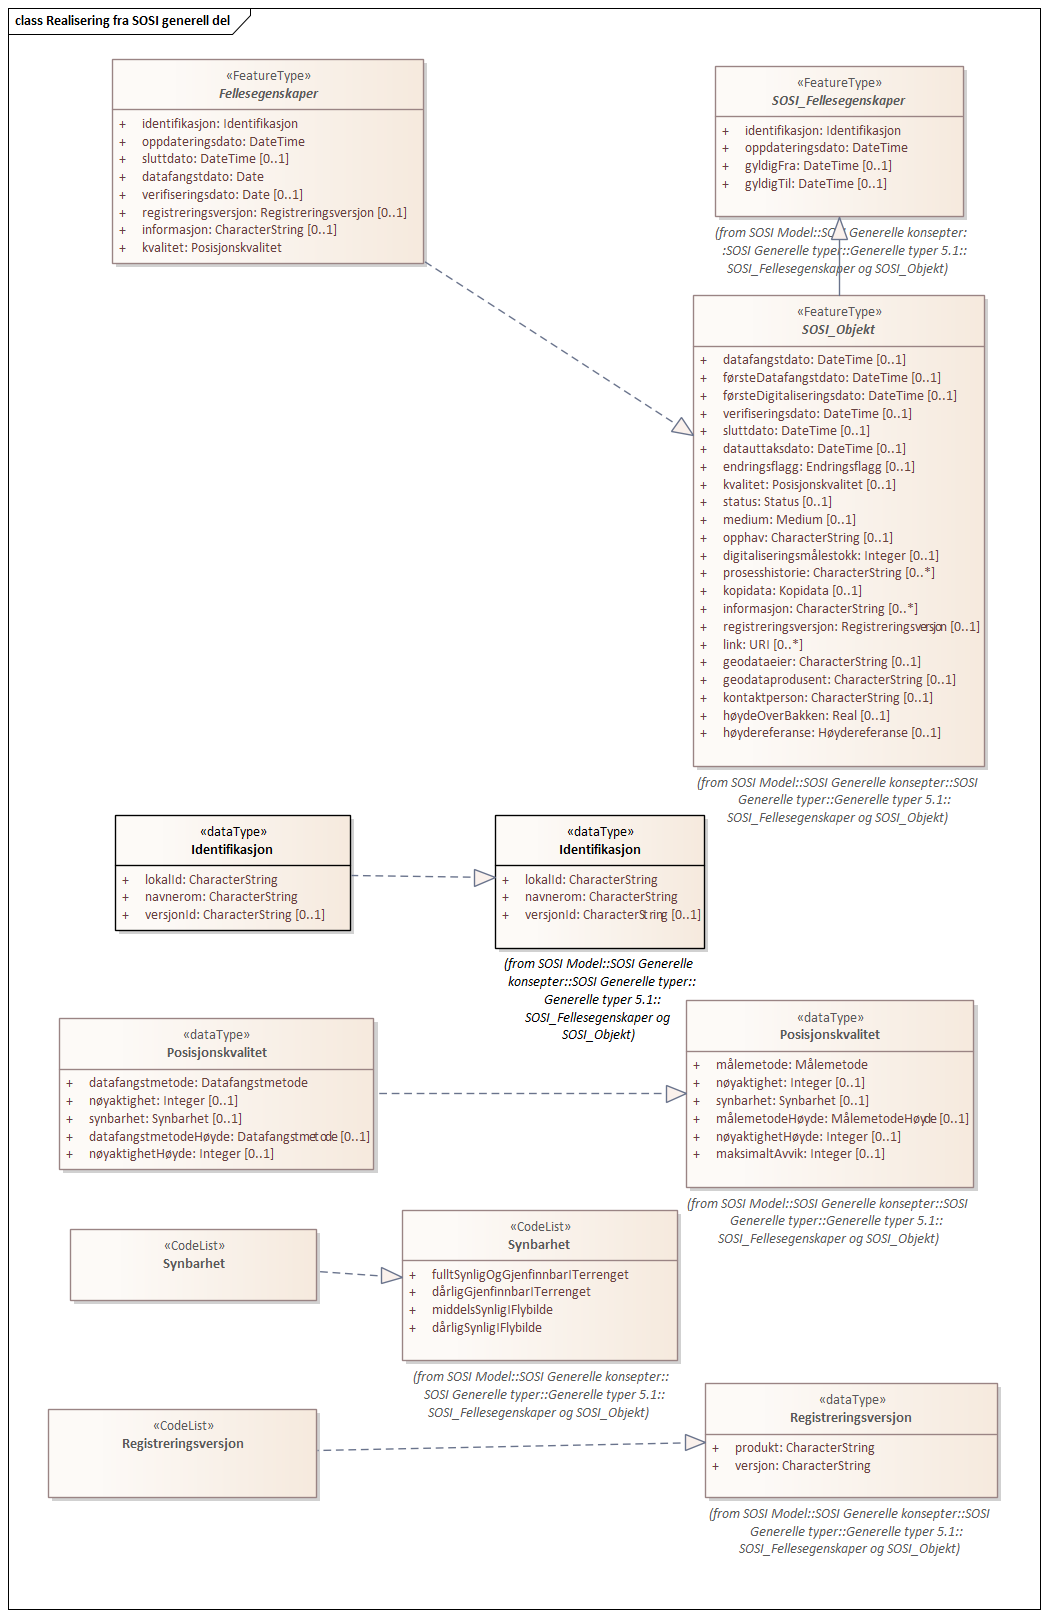
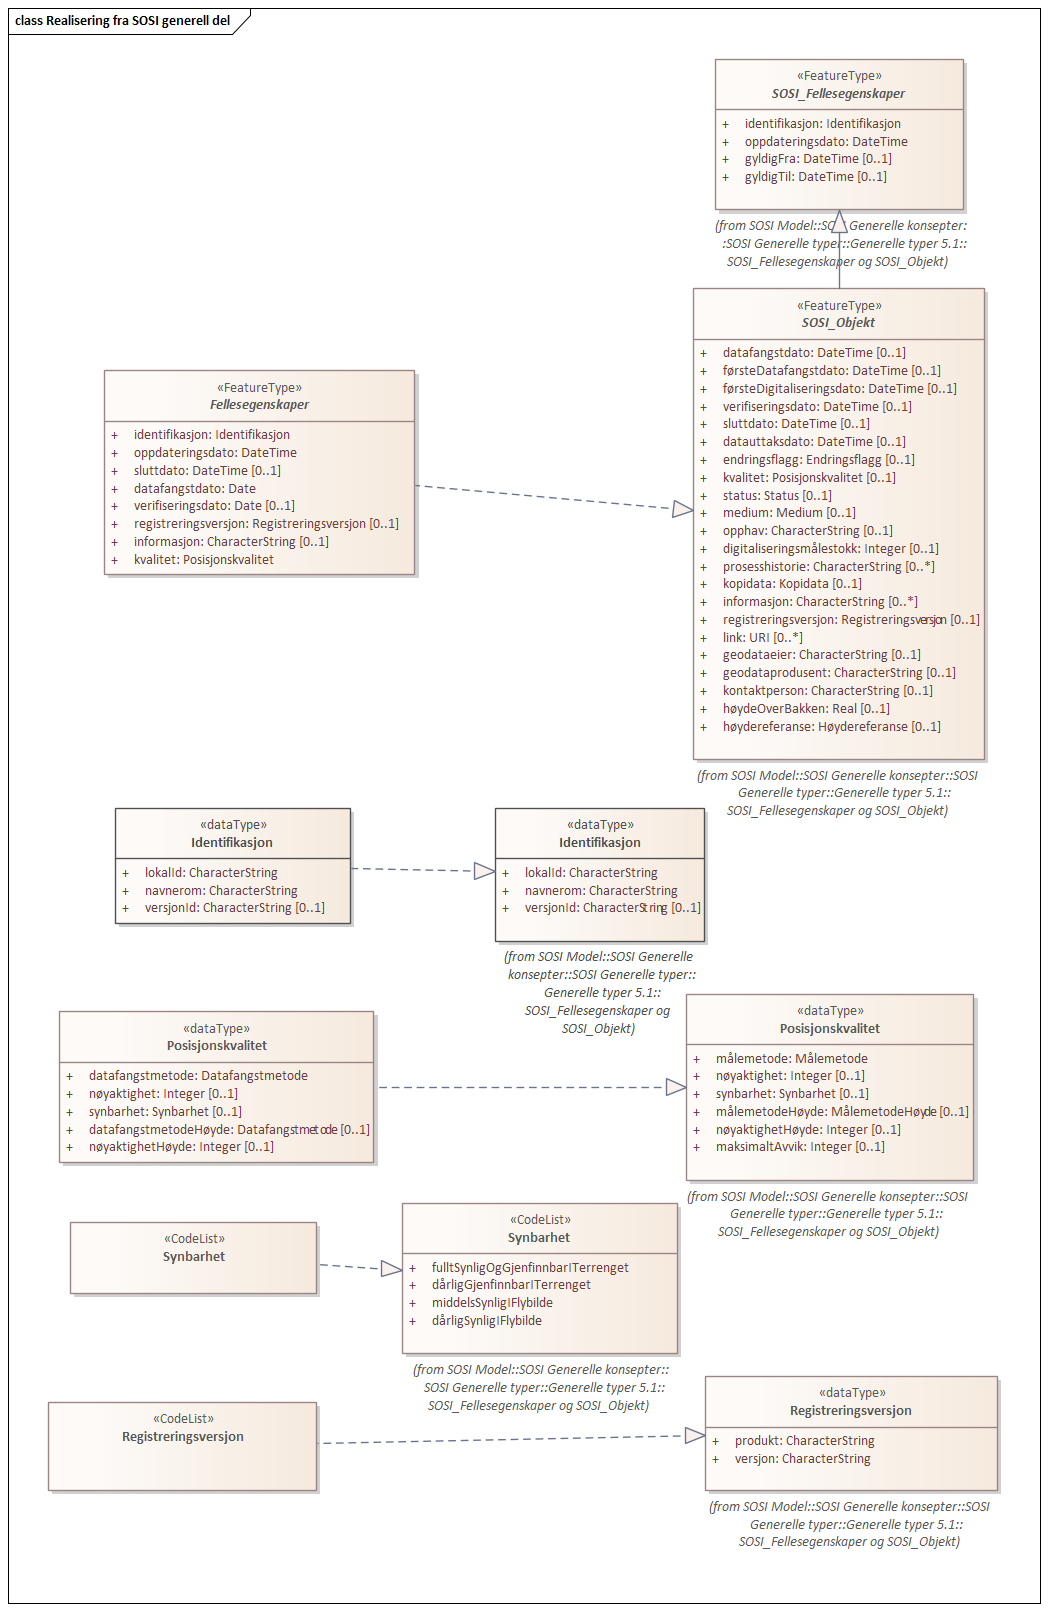
Diagram pynt

diff --git a/produktspesifikasjon/index.html b/produktspesifikasjon/index.html
@@ -1398,7 +1398,7 @@ Kopieres direkte inn i de enkelte FKB-datasettene</p>
 </tr>
 <tr>
 <td class="tableblock halign-left valign-top"><p class="tableblock">Type:</p></td>
-<td class="tableblock halign-left valign-top"><p class="tableblock"><a href="http://skjema.geonorge.no/SOSI/basistype/DateTime">DateTime</a></p></td>
+<td class="tableblock halign-left valign-top"><p class="tableblock">DateTime</p></td>
 </tr>
 </tbody>
 </table>
@@ -1424,7 +1424,7 @@ Egenskapen settes av forvaltningssystemet . Sluttdato skal kun sendes med ut fra
 </tr>
 <tr>
 <td class="tableblock halign-left valign-top"><p class="tableblock">Type:</p></td>
-<td class="tableblock halign-left valign-top"><p class="tableblock"><a href="http://skjema.geonorge.no/SOSI/basistype/DateTime">DateTime</a></p></td>
+<td class="tableblock halign-left valign-top"><p class="tableblock">DateTime</p></td>
 </tr>
 </tbody>
 </table>
@@ -1448,7 +1448,7 @@ Egenskapen settes av forvaltningssystemet . Sluttdato skal kun sendes med ut fra
 </tr>
 <tr>
 <td class="tableblock halign-left valign-top"><p class="tableblock">Type:</p></td>
-<td class="tableblock halign-left valign-top"><p class="tableblock"><a href="http://skjema.geonorge.no/SOSI/basistype/Date">Date</a></p></td>
+<td class="tableblock halign-left valign-top"><p class="tableblock">Date</p></td>
 </tr>
 </tbody>
 </table>
@@ -1474,7 +1474,7 @@ Brukes for eksempel i de sammenhenger hvor det er foretatt fotogrammetrisk ajour
 </tr>
 <tr>
 <td class="tableblock halign-left valign-top"><p class="tableblock">Type:</p></td>
-<td class="tableblock halign-left valign-top"><p class="tableblock"><a href="http://skjema.geonorge.no/SOSI/basistype/Date">Date</a></p></td>
+<td class="tableblock halign-left valign-top"><p class="tableblock">Date</p></td>
 </tr>
 </tbody>
 </table>
@@ -1528,7 +1528,7 @@ Mulighet til å legge inn utfyllende informasjon om objektet. Egenskapen bør ba
 </tr>
 <tr>
 <td class="tableblock halign-left valign-top"><p class="tableblock">Type:</p></td>
-<td class="tableblock halign-left valign-top"><p class="tableblock"><a href="http://skjema.geonorge.no/SOSI/basistype/CharacterString">CharacterString</a></p></td>
+<td class="tableblock halign-left valign-top"><p class="tableblock">CharacterString</p></td>
 </tr>
 </tbody>
 </table>
@@ -1603,7 +1603,7 @@ SOSI Generell objektkatalog::FKB Generell del::FKB Generell del-5.0::Generelle e
 </tr>
 <tr>
 <td class="tableblock halign-left valign-top"><p class="tableblock">Type:</p></td>
-<td class="tableblock halign-left valign-top"><p class="tableblock"><a href="http://skjema.geonorge.no/SOSI/basistype/URI">URI</a></p></td>
+<td class="tableblock halign-left valign-top"><p class="tableblock">URI</p></td>
 </tr>
 </tbody>
 </table>
@@ -1627,7 +1627,7 @@ SOSI Generell objektkatalog::FKB Generell del::FKB Generell del-5.0::Generelle e
 </tr>
 <tr>
 <td class="tableblock halign-left valign-top"><p class="tableblock">Type:</p></td>
-<td class="tableblock halign-left valign-top"><p class="tableblock"><a href="http://skjema.geonorge.no/SOSI/basistype/GM_Surface">GM_Surface</a></p></td>
+<td class="tableblock halign-left valign-top"><p class="tableblock">GM_Surface</p></td>
 </tr>
 </tbody>
 </table>
@@ -1696,7 +1696,7 @@ SOSI Generell objektkatalog::FKB Generell del::FKB Generell del-5.0::Generelle e
 </tr>
 <tr>
 <td class="tableblock halign-left valign-top"><p class="tableblock">Type:</p></td>
-<td class="tableblock halign-left valign-top"><p class="tableblock"><a href="http://skjema.geonorge.no/SOSI/basistype/CharacterString">CharacterString</a></p></td>
+<td class="tableblock halign-left valign-top"><p class="tableblock">CharacterString</p></td>
 </tr>
 </tbody>
 </table>
@@ -1722,7 +1722,7 @@ SOSI Generell objektkatalog::FKB Generell del::FKB Generell del-5.0::Generelle e
 </tr>
 <tr>
 <td class="tableblock halign-left valign-top"><p class="tableblock">Type:</p></td>
-<td class="tableblock halign-left valign-top"><p class="tableblock"><a href="http://skjema.geonorge.no/SOSI/basistype/CharacterString">CharacterString</a></p></td>
+<td class="tableblock halign-left valign-top"><p class="tableblock">CharacterString</p></td>
 </tr>
 </tbody>
 </table>
@@ -1746,7 +1746,7 @@ SOSI Generell objektkatalog::FKB Generell del::FKB Generell del-5.0::Generelle e
 </tr>
 <tr>
 <td class="tableblock halign-left valign-top"><p class="tableblock">Type:</p></td>
-<td class="tableblock halign-left valign-top"><p class="tableblock"><a href="http://skjema.geonorge.no/SOSI/basistype/CharacterString">CharacterString</a></p></td>
+<td class="tableblock halign-left valign-top"><p class="tableblock">CharacterString</p></td>
 </tr>
 </tbody>
 </table>
@@ -1828,7 +1828,7 @@ Egenskapen beskriver datafangstmetode for grunnrisskoordinater (x,y), eller for 
 </tr>
 <tr>
 <td class="tableblock halign-left valign-top"><p class="tableblock">Type:</p></td>
-<td class="tableblock halign-left valign-top"><p class="tableblock"><a href="http://skjema.geonorge.no/SOSI/basistype/Integer">Integer</a></p></td>
+<td class="tableblock halign-left valign-top"><p class="tableblock">Integer</p></td>
 </tr>
 </tbody>
 </table>
@@ -1913,7 +1913,7 @@ Egenskapen beskriver datafangstmetode for grunnrisskoordinater (x,y), eller for 
 </tr>
 <tr>
 <td class="tableblock halign-left valign-top"><p class="tableblock">Type:</p></td>
-<td class="tableblock halign-left valign-top"><p class="tableblock"><a href="http://skjema.geonorge.no/SOSI/basistype/Integer">Integer</a></p></td>
+<td class="tableblock halign-left valign-top"><p class="tableblock">Integer</p></td>
 </tr>
 </tbody>
 </table>
